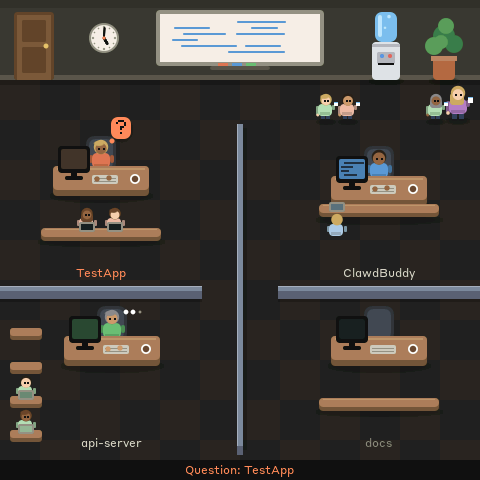
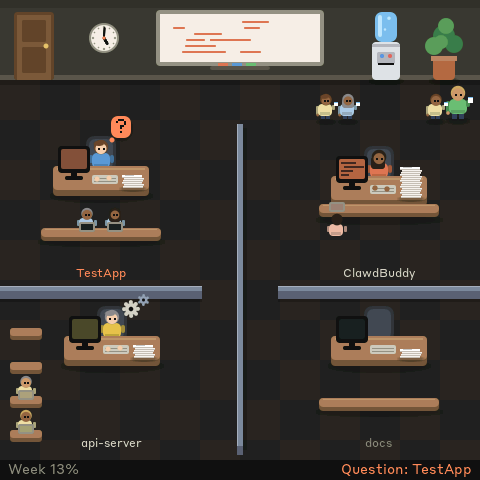
Docs: every office picture in the new look
The office GIF and the remaining stills are captured again with the paper
stacks, the gears, the done tick and the usage strip; the older simulator
scenarios send tx so they show them. The README's opening mentions the
paper, the tick and the desk card, and the simulator commands switch
offices with a tap on the wall, now that a tap on a desk opens its card.

diff --git a/README.md b/README.md
@@ -7,7 +7,10 @@ A desk companion for [Claude Code](https://claude.com/claude-code) on a
   Claude Code is doing and tells you which session is waiting for you.
 - **The office view:** every running session as a desk in a small office,
   with its main agent and sub-agents as people who type, think at the
-  whiteboard, wait for you, or take a break at the water cooler.
+  whiteboard, wait for you, or take a break at the water cooler. A stack of
+  paper on each desk shows how much of its context the session has used, a
+  green tick says its turn is done, and a tap on a desk opens a card with
+  the details.
 
 A menu-bar app on your computer reads Claude Code's usage and hook events and
 sends them to the screen over Bluetooth.
@@ -226,6 +229,8 @@ from then.
 | Anywhere, during an alert | Anywhere | Dismisses the alert |
 | Screensaver | Anywhere | Wakes the pet |
 
+On the office view a tap on a desk is that desk's, so to switch views tap a
+side of the screen away from the desks: the wall along the top always works.
 The views form a ring: the pet view, then each office in turn. With the office view off, a tap anywhere on the pet view raises
 the large pet.
 
@@ -390,12 +395,15 @@ SIM_FAST=1 SIM_SCENARIO=sim/pets-tour.jsonl \
 # The office view.
 SIM_FAST=1 SIM_SCENARIO=sim/team.jsonl SIM_TAPS="3000@440,300" .pio/build/sim/program
 
+# The finer states, the paper for context, and a desk's card (the second tap).
+SIM_FAST=1 SIM_SCENARIO=sim/team-states.jsonl SIM_TAPS="3000@440,300;10000@80,170" .pio/build/sim/program
+
 # The cubicle style.
 SIM_FAST=1 SIM_SCENARIO=sim/team-cubicles.jsonl SIM_TAPS="3000@440,300" .pio/build/sim/program
 
 # Two offices, and desks closing up.
 SIM_FAST=1 SIM_SCENARIO=sim/team-two-offices.jsonl \
-  SIM_TAPS="3000@440,300;16000@440,300;40000@40,300" .pio/build/sim/program
+  SIM_TAPS="3000@440,300;16000@440,100;40000@40,100" .pio/build/sim/program
 ```
 
 Click in the window to tap; `esc` quits.

diff --git a/docs/office-view.md b/docs/office-view.md
@@ -104,6 +104,9 @@ and the bottom line are text labels over it (`pet/team_view.cpp`).
   random while their session works.
 - People on their feet who meet step aside for a moment, the one later in
   the list waiting for the other.
+- While the office is on screen every tap is its own, whatever the pet
+  behind it is doing; only the screensaver, which covers it, takes the tap
+  to wake.
 - A tap is a desk's when it lands on the desk itself (not its bench or its
   name); the board then asks the app for that desk's card.
 - The context used is a stack of sheets beside the monitor, 42 pixels tall
@@ -126,7 +129,7 @@ SIM_FAST=1 SIM_SCENARIO=sim/team-cubicles.jsonl SIM_TAPS="3000@440,300" .pio/bui
 # The finer states, the paper, and a desk's card (the second tap).
 SIM_FAST=1 SIM_SCENARIO=sim/team-states.jsonl SIM_TAPS="3000@440,300;10000@80,170" .pio/build/sim/program
 SIM_FAST=1 SIM_SCENARIO=sim/team-two-offices.jsonl \
-  SIM_TAPS="3000@440,300;16000@440,300;40000@40,300" .pio/build/sim/program
+  SIM_TAPS="3000@440,300;16000@440,100;40000@40,100" .pio/build/sim/program
 ```
 
 A scenario is one JSON payload per line, with a `hold_ms`; edit the `tm`
